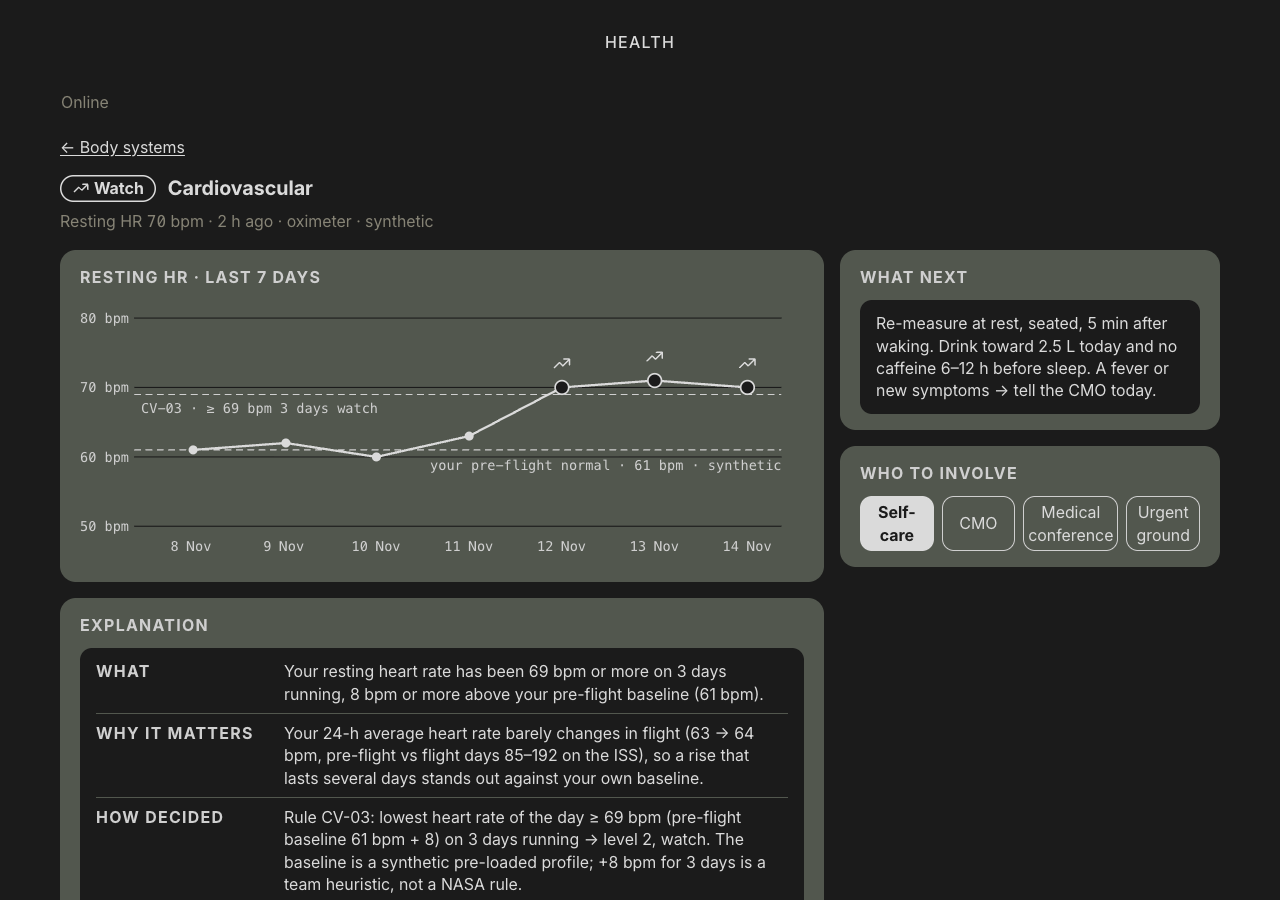
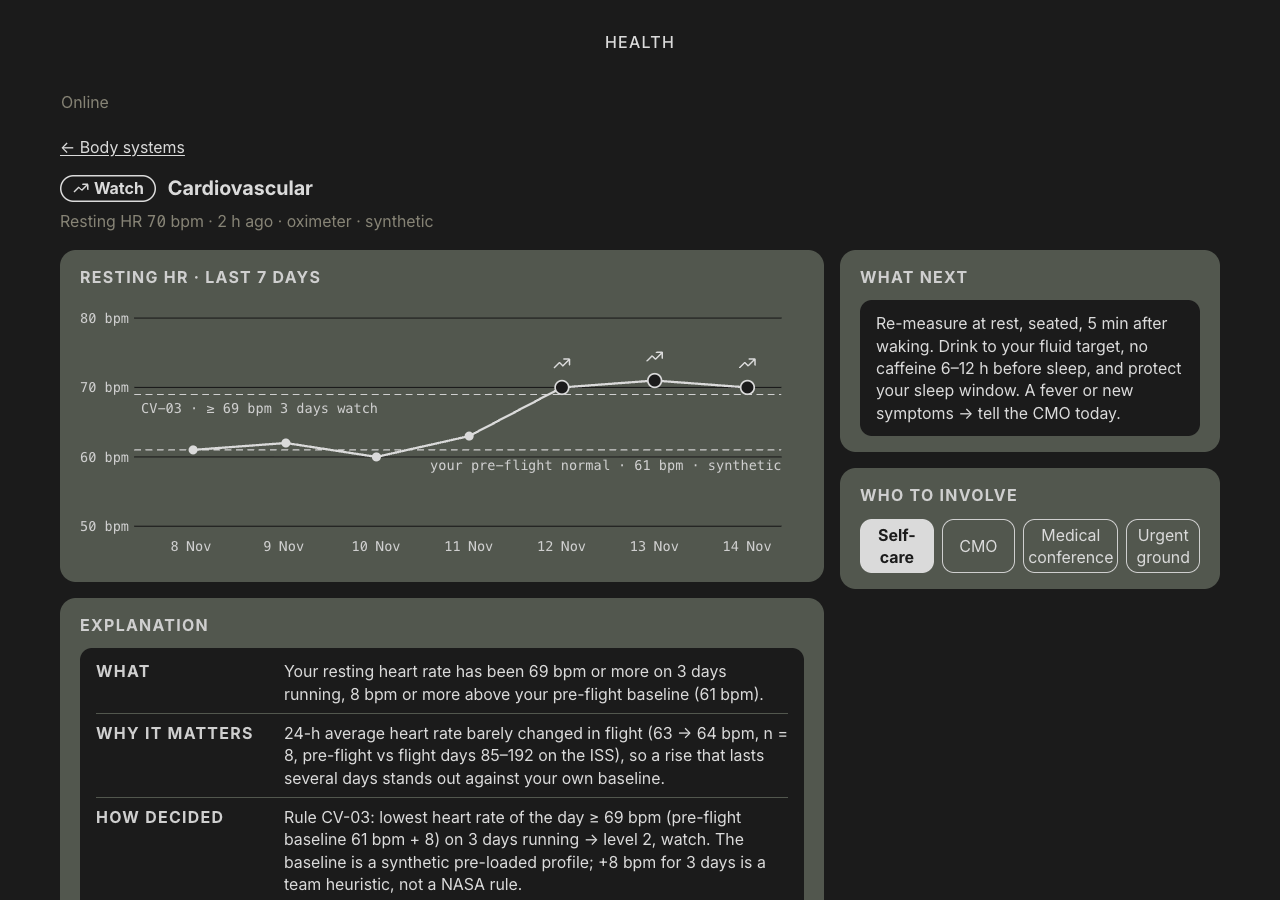
docs(cardiovascular): cohort why text and sourced next step in the resting HR drift mock (#35)

Changed region(s): [[0.6562, 0.3733, 0.9688, 0.6533], [0.2188, 0.8089, 0.5938, 0.8711]]

diff --git a/docs/features/35-resting-hr-drift.mock.html b/docs/features/35-resting-hr-drift.mock.html
@@ -52,16 +52,16 @@ svg text{fill:var(--color-text-muted);font-size:12px;font-family:var(--font-data
     <h3 class="card-heading">Explanation</h3>
     <dl class="status-explanation">
       <div><dt>What</dt><dd>Your resting heart rate has been 69 bpm or more on 3 days running, 8 bpm or more above your pre-flight baseline (61 bpm).</dd></div>
-      <div><dt>Why it matters</dt><dd>Your 24-h average heart rate barely changes in flight (63 → 64 bpm, pre-flight vs flight days 85–192 on the ISS), so a rise that lasts several days stands out against your own baseline.</dd></div>
+      <div><dt>Why it matters</dt><dd>24-h average heart rate barely changed in flight (63 → 64 bpm, n = 8, pre-flight vs flight days 85–192 on the ISS), so a rise that lasts several days stands out against your own baseline.</dd></div>
       <div><dt>How decided</dt><dd>Rule CV-03: lowest heart rate of the day ≥ 69 bpm (pre-flight baseline 61 bpm + 8) on 3 days running → level 2, watch. The baseline is a synthetic pre-loaded profile; +8 bpm for 3 days is a team heuristic, not a NASA rule.</dd></div>
-      <div><dt>Source</dt><dd>research/health-indicators.md §1 [S26]; research/countermeasures.md [C2][C6]; ideas/crew-health-companion.md check-and-act table <span class="tag tag--rule">rule · CV-03</span></dd></div>
+      <div><dt>Source</dt><dd>research/health-indicators.md §1 [S26]; research/countermeasures.md [C6]; ideas/crew-health-companion.md check-and-act table <span class="tag tag--rule">rule · CV-03</span></dd></div>
     </dl>
   </section>
 </div>
 <div class="stack">
   <section class="card">
     <h3 class="card-heading">What next</h3>
-    <p class="next">Re-measure at rest, seated, 5 min after waking. Drink toward 2.5 L today and no caffeine 6–12 h before sleep. A fever or new symptoms → tell the CMO today.</p>
+    <p class="next">Re-measure at rest, seated, 5 min after waking. Drink to your fluid target, no caffeine 6–12 h before sleep, and protect your sleep window. A fever or new symptoms → tell the CMO today.</p>
   </section>
   <section class="card">
     <h3 class="card-heading">Who to involve</h3>
